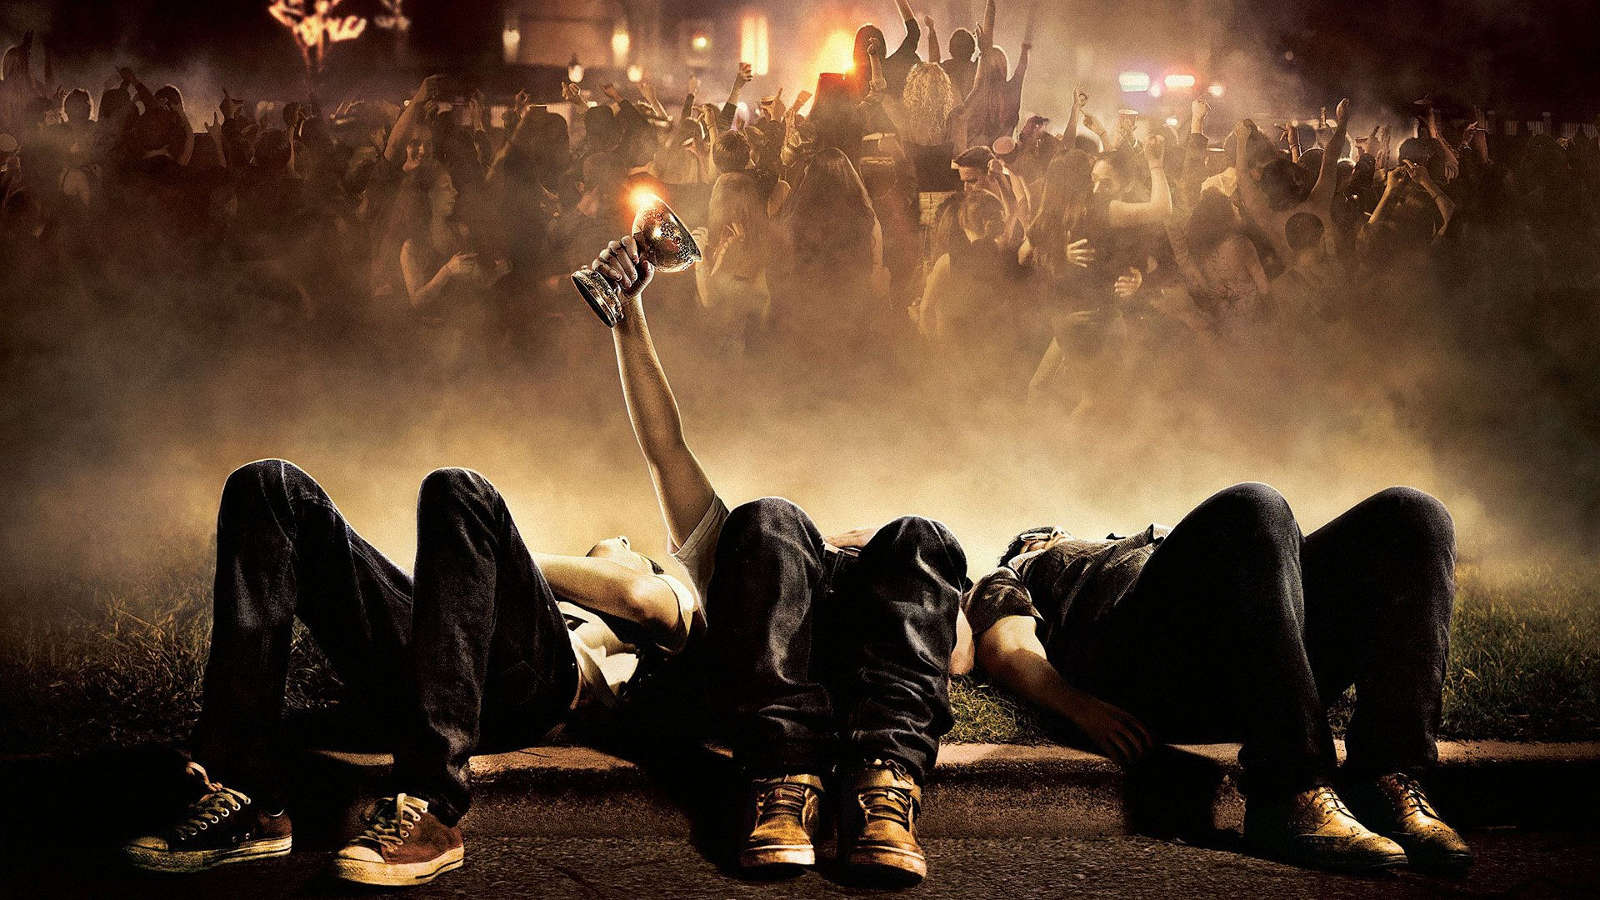
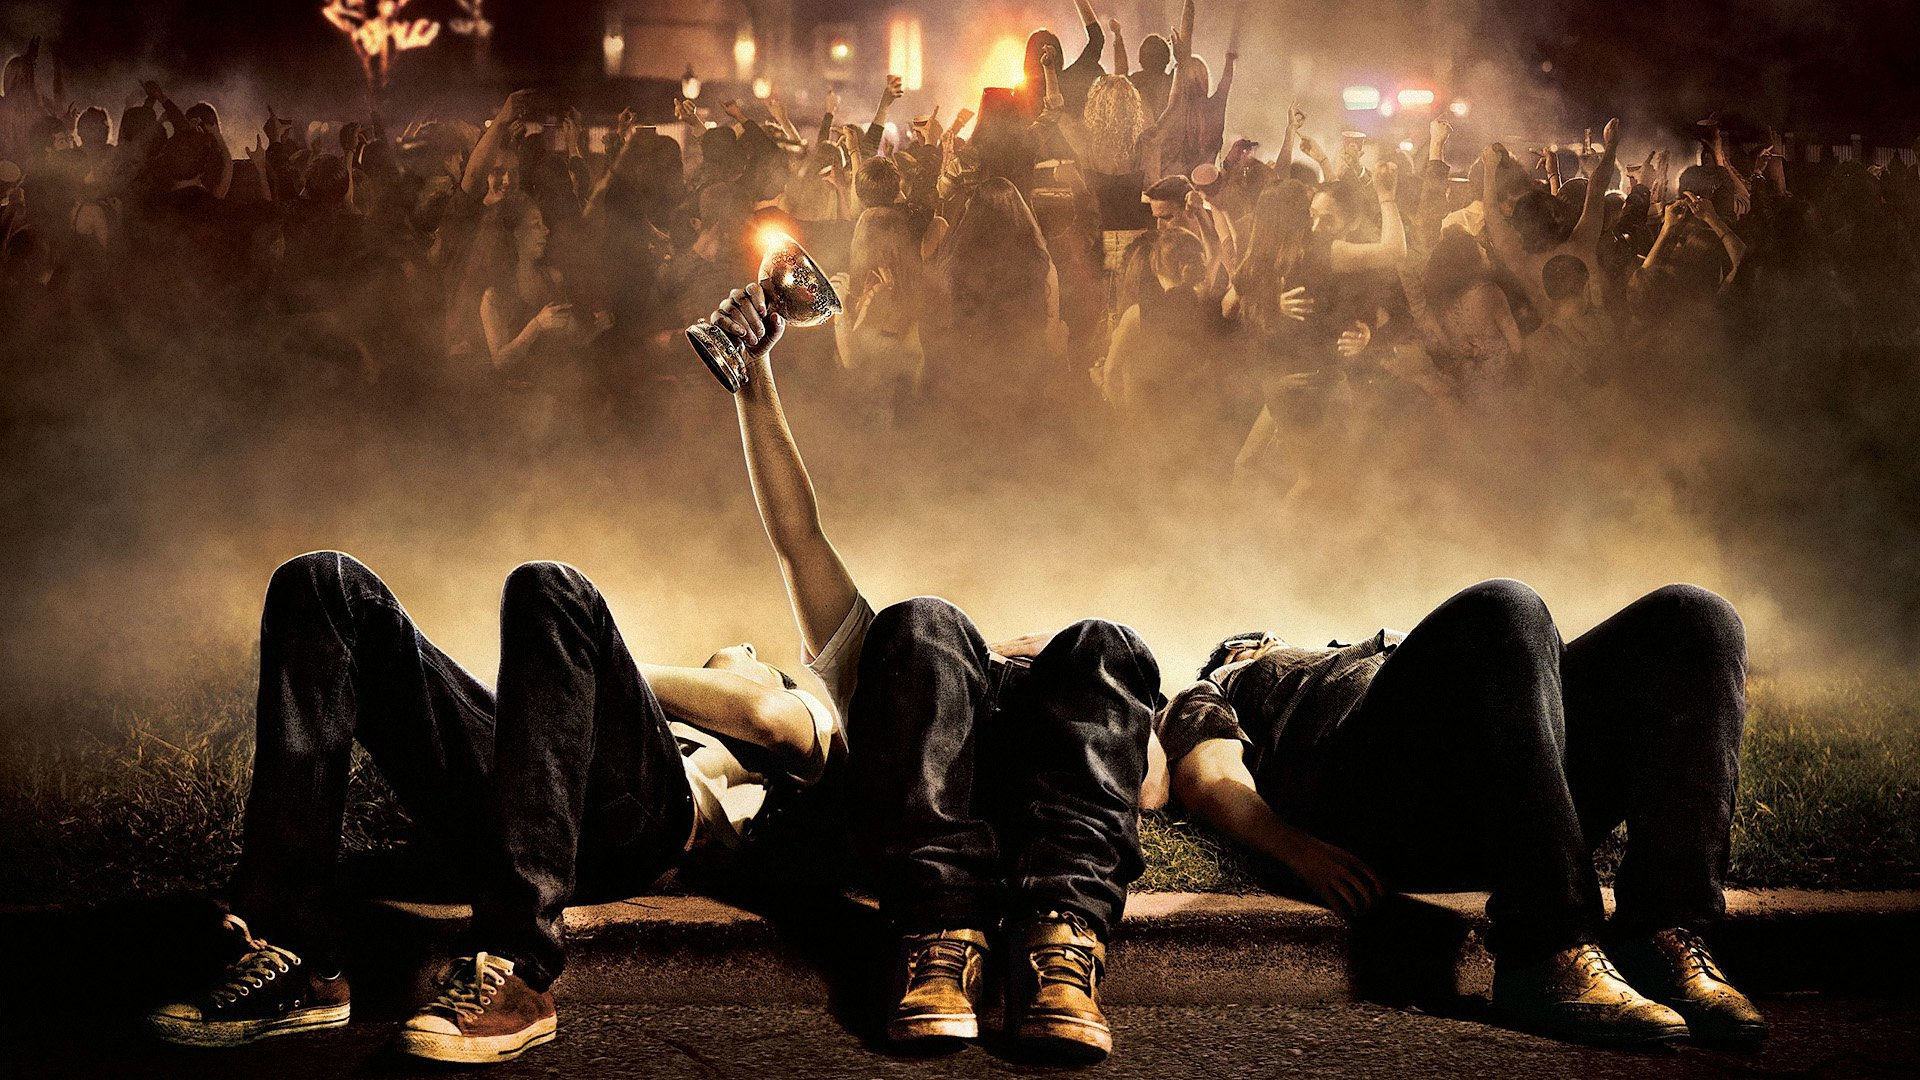
Mobile Optimization

diff --git a/style/style.css b/style/style.css
@@ -36,7 +36,7 @@ body.fadeInHalf::after {
 
 
 h1 {
-    font-size: 9rem;
+    font-size: 5rem;
     text-transform: uppercase;
     letter-spacing: 0.5rem;
 
@@ -54,7 +54,7 @@ p {
 }
 
 h2 {
-    font-size: 5rem;
+
 }
 
 strong {
@@ -94,7 +94,6 @@ i.fas {
 }
 
 .jumbotron h2 {
-    font-size: 3rem;
 }
 
 .main-banner {
@@ -112,7 +111,7 @@ i.fas {
     position: absolute;
     opacity: 0;
     background-image: url(../src/project_k_banner.jpg);
-    background-size: 100%;
+    background-size: cover;
     background-position: center;
     z-index: -1;
 }
@@ -127,7 +126,7 @@ i.fas {
 }
 
 .countdown h2 {
-    font-size: 3rem;
+
 }
 
 [class*='tile'] {

diff --git a/index.html b/index.html
@@ -11,6 +11,7 @@
     <meta property="og:image" content="https://www.project-k.party/src/preview_image.jpg">
     <meta property="og:type" content="website" />
     <meta property="og:locale" content="de_DE" />
+    <meta name="viewport" content="width=device-width, initial-scale=1">
 
     <link rel="apple-touch-icon" sizes="180x180" href="/apple-touch-icon.png">
     <link rel="icon" type="image/png" sizes="32x32" href="/favicon-32x32.png">
